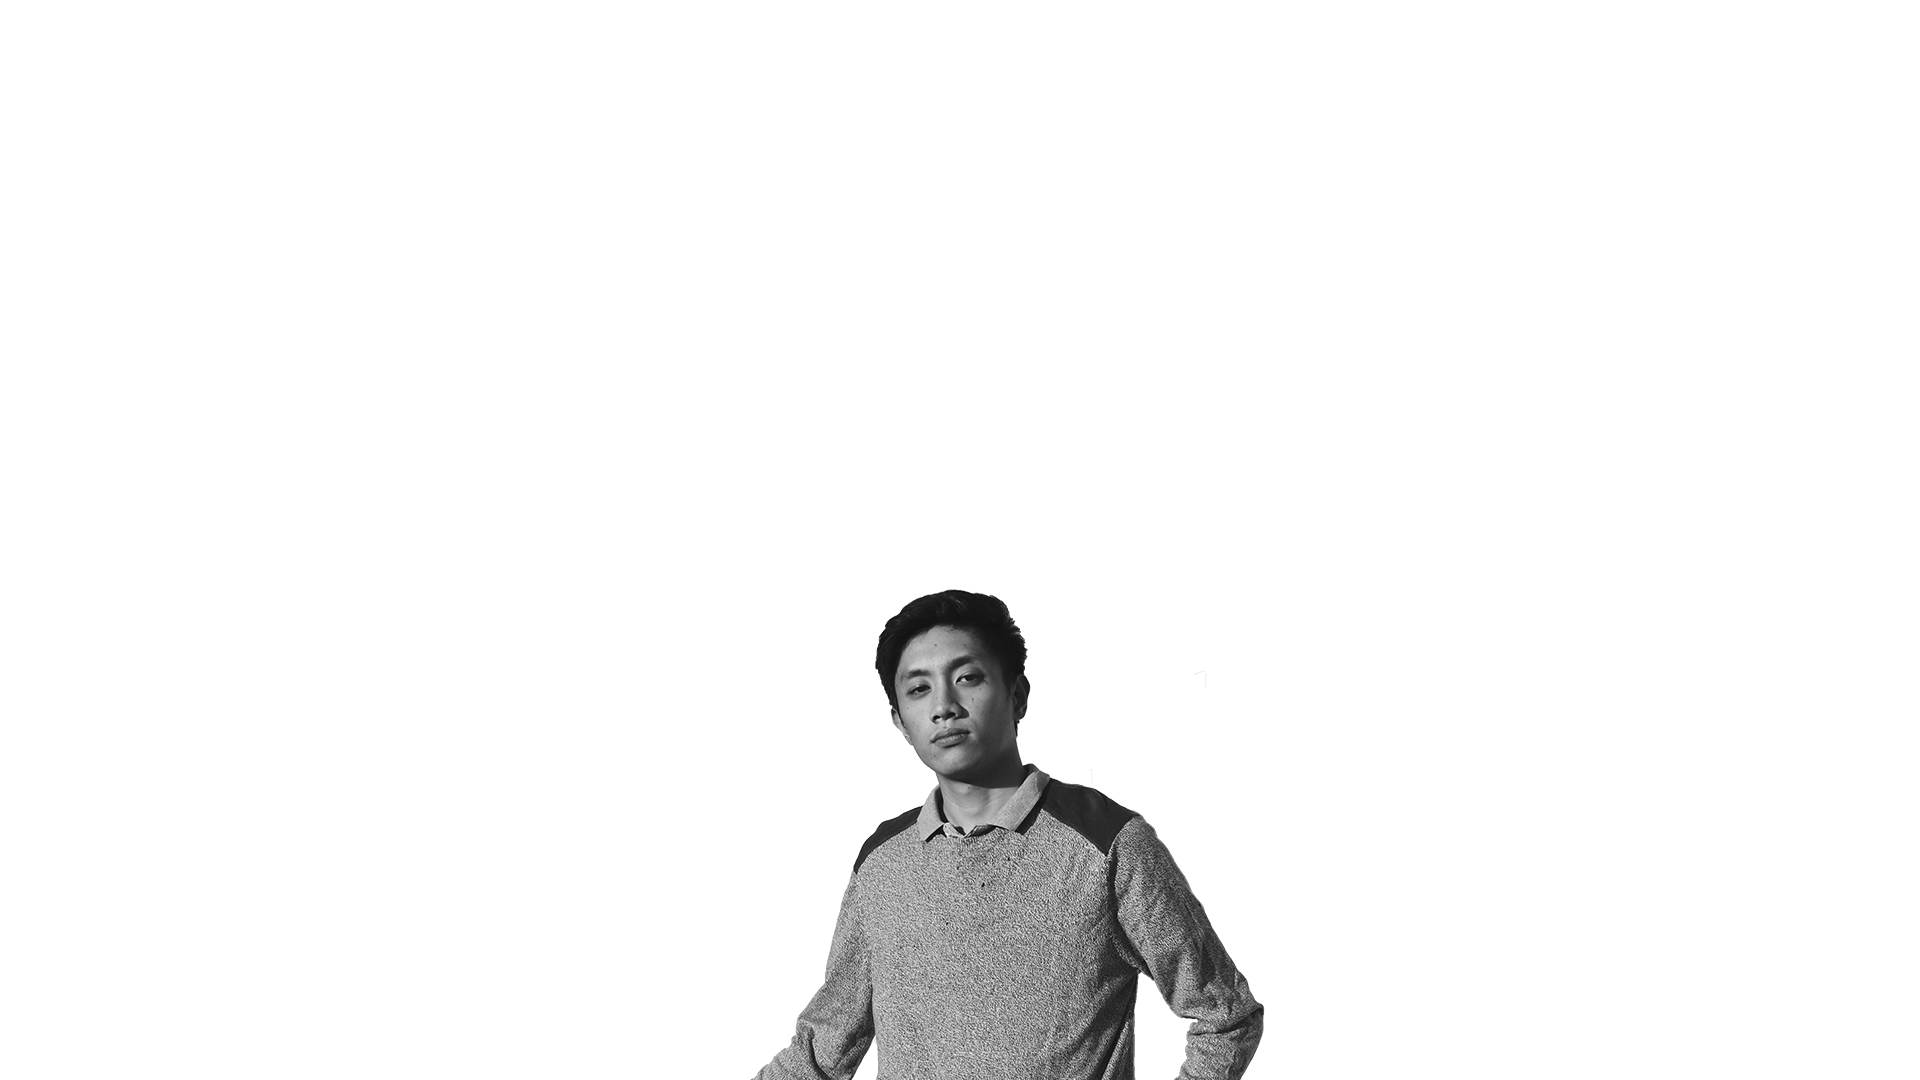
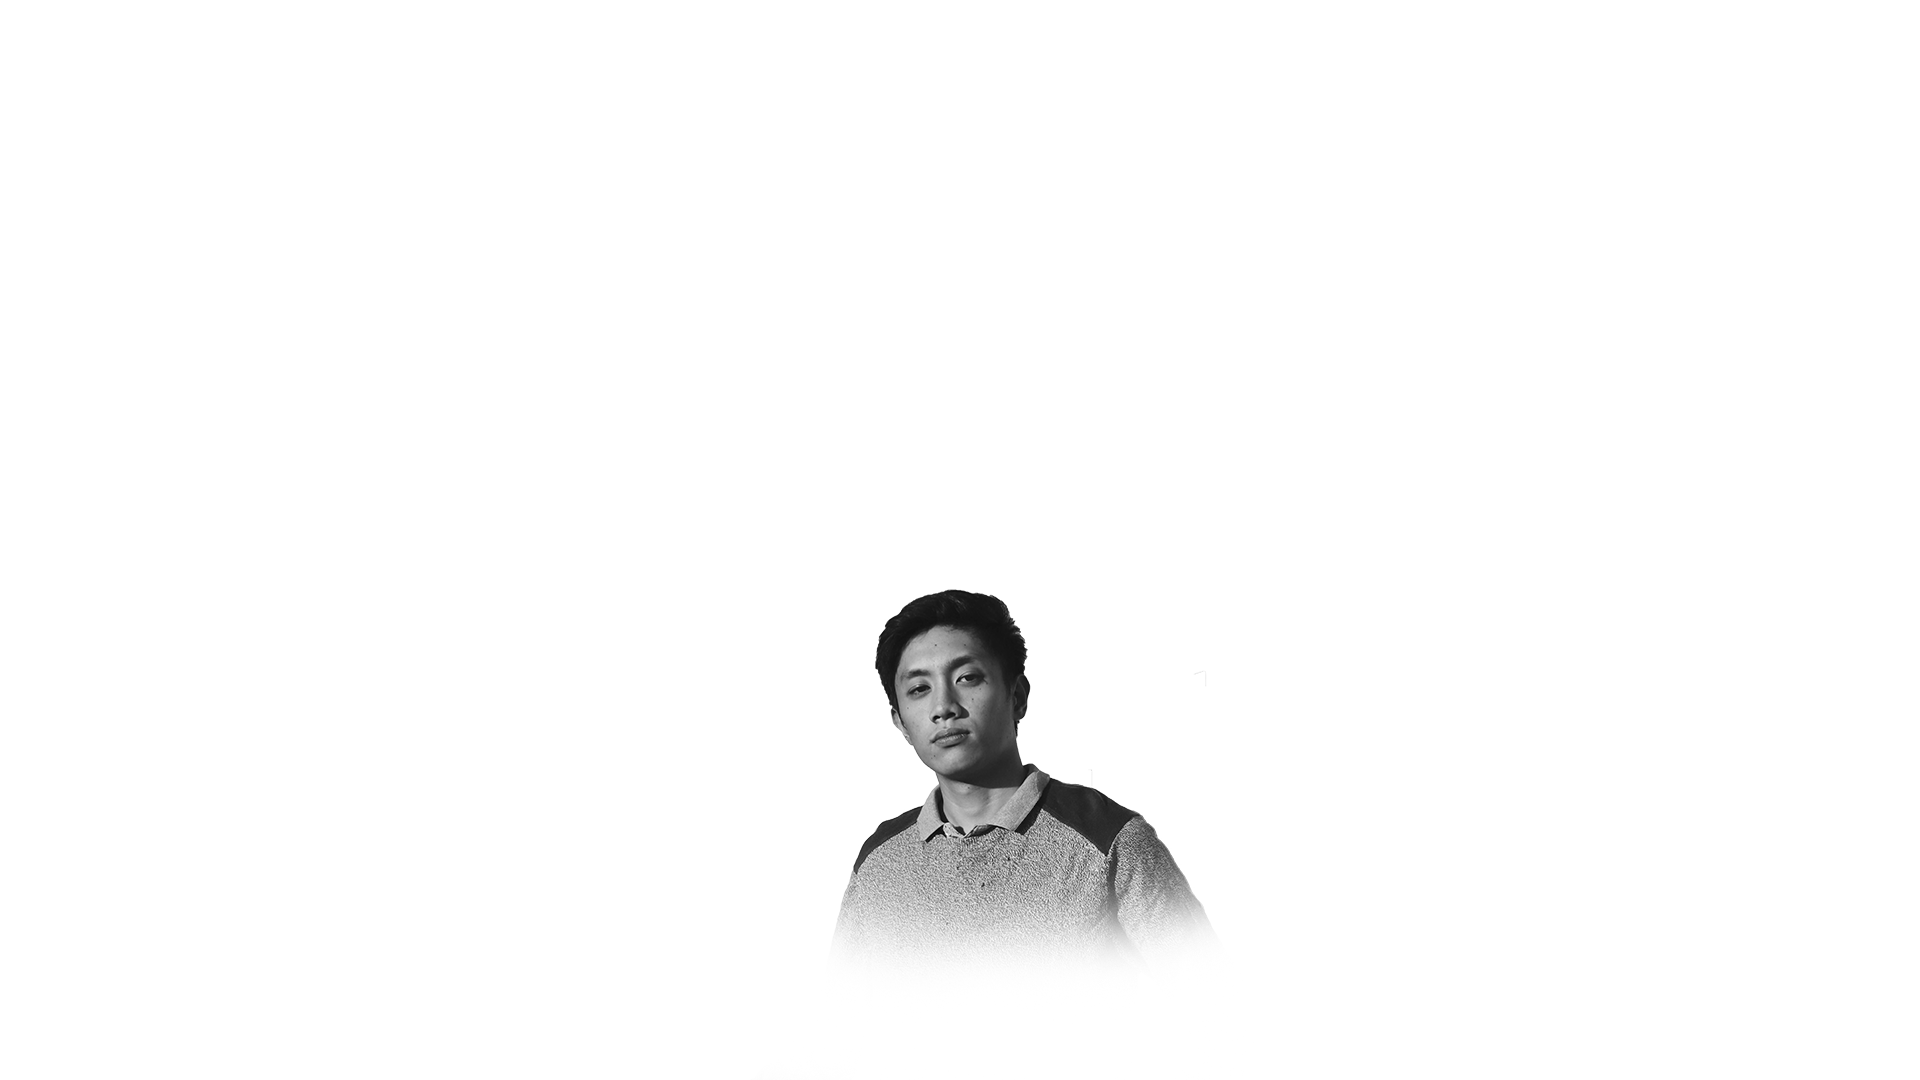
up

Changed region(s): [[0.375, 0.7944, 0.6562, 1.0]]

diff --git a/index.html b/index.html
@@ -11,6 +11,10 @@
     <title>Ezekiel's Profile</title>
 </head>
 <body onload="myFunction()">
+    <div class="percent">
+        <div class="fill"></div>
+        <div class="counter"><h1></h1></div>
+    </div>
     <div class="sidebar">
         <a href="#container1">Home</a>
         <a href="#container2">About</a>
@@ -94,6 +98,78 @@
   </script>
   <script src="app.js"></script>
 <script src="imagehover.js"></script>
-  
+<script>
+    const body = document.body,
+        scrollWrap = document.getElementsByClassName("container")[0],
+        height = scrollWrap.getBoundingClientRect().height - 1,
+        speed = 0.04;
+
+    var offset = 0;
+
+    body.style.height = Math.floor(height) + "px";
+
+    function smoothScroll() {
+        offset += (window.pageYOffset - offset) * speed;
+
+        var scroll = "translateY(-" + offset + "px) translateZ(0)";
+        scrollWrap.style.transform = scroll;
+
+        callScroll = requestAnimationFrame(smoothScroll);
+    }
+
+    smoothScroll();
+    const content = document.querySelector(".content");
+    let currentPos = window.pageYOffset;
+
+    const callDistort = function () {
+        const newPos = window.pageYOffset;
+        const diff = newPos - currentPos;
+        const speed = diff * 0.35;
+
+        content.style.transform = "skewY(" + speed + "deg)";
+        currentPos = newPos;
+        requestAnimationFrame(callDistort);
+    };
+
+    callDistort();
+</script>
+<script>
+    //Remove lines 41-55 for DEMO-2
+    var counter = document.querySelector(".percent");
+
+    TweenLite.set(counter, {
+        xPercent: -5,
+        yPercent: -5,
+    });
+
+    window.addEventListener("mousemove", moveCounter);
+
+    function moveCounter(e) {
+        TweenLite.to(counter, 0.5, {
+            x: e.clientX,
+            y: e.clientY,
+        });
+    }
+
+    function progress() {
+        var windowScrollTop = $(window).scrollTop();
+        var docHeight = $(document).height();
+        var windowHeight = $(window).height();
+        var progress = (windowScrollTop / (docHeight - windowHeight)) * 100;
+
+        var $bgColor = progress > 99 ? "#fff" : "#fff";
+        var $textColor = progress > 99 ? "#fff" : "#333";
+
+        $(".counter h1")
+            .text(Math.round(progress) + "%")
+            .css({ color: $textColor });
+
+        $(".fill")
+            .height(progress + "%")
+            .css({ backgroundColor: $bgColor });
+    }
+    progress();
+    $(document).on("scroll", progress);
+</script>
 </body>
 </html>

diff --git a/style.css b/style.css
@@ -18,6 +18,49 @@ body {
   background-color: black;
   scroll-behavior: smooth;
 }
+.counter h1 {
+  position: absolute;
+  font-family: "MontLight";
+  font-size: 16px;
+  font-weight: lighter;
+  color: white !important;
+  margin: 20px;
+}
+
+/*--- Remove lines 31-39 and add 42-52 for DEMO-2 ---*/
+.percent {
+  position: fixed;
+  display: flex;
+  flex-direction: column;
+  background: rgba(255, 255, 255, 0.2);
+  height: 140px;
+  width: 1px;
+  margin: -60px 0 0 40px;
+}
+
+/*---
+.percent {
+    position: fixed;
+    display: flex;
+    top: 50%;
+    transform: translateY(-50%);
+    right: 100px;
+    flex-direction: column;
+    background: rgba(255, 255, 255, 0.2);
+    height: 140px;
+    width: 1px;
+}
+--*/
+
+.fill {
+  position: absolute;
+  bottom: 0;
+  width: 100%;
+  height: 100%;
+  background: #fff;
+  transition: background 0.15s ease;
+}
+
 .sidebar {
   z-index: 10;
   position: fixed;
@@ -45,11 +88,11 @@ body {
 #loading {
   background-position: center center;
   background-attachment: fixed;
+  background-size: cover;
   position: fixed;
   width: 100%;
   height: 100vh;
   background-image: url("image/booting.gif");
-  background-size: cover;
   z-index: 99999;
 }
 #container1 {
@@ -245,13 +288,17 @@ body {
     clip: rect(83px, auto, 40px, 30px);
   }
 }
-
+#container3 {
+  background-image: url("image/backgroundpage3.jpg");
+  background-position: center center;
+  background-attachment: fixed;
+  background-size: cover;
+}
 #wrapper {
   padding-bottom: 10%;
   box-sizing: border-box;
   width: 100%;
   height: 100vh;
-  background: black;
   display: flex;
   align-items: center;
   justify-content: center;
